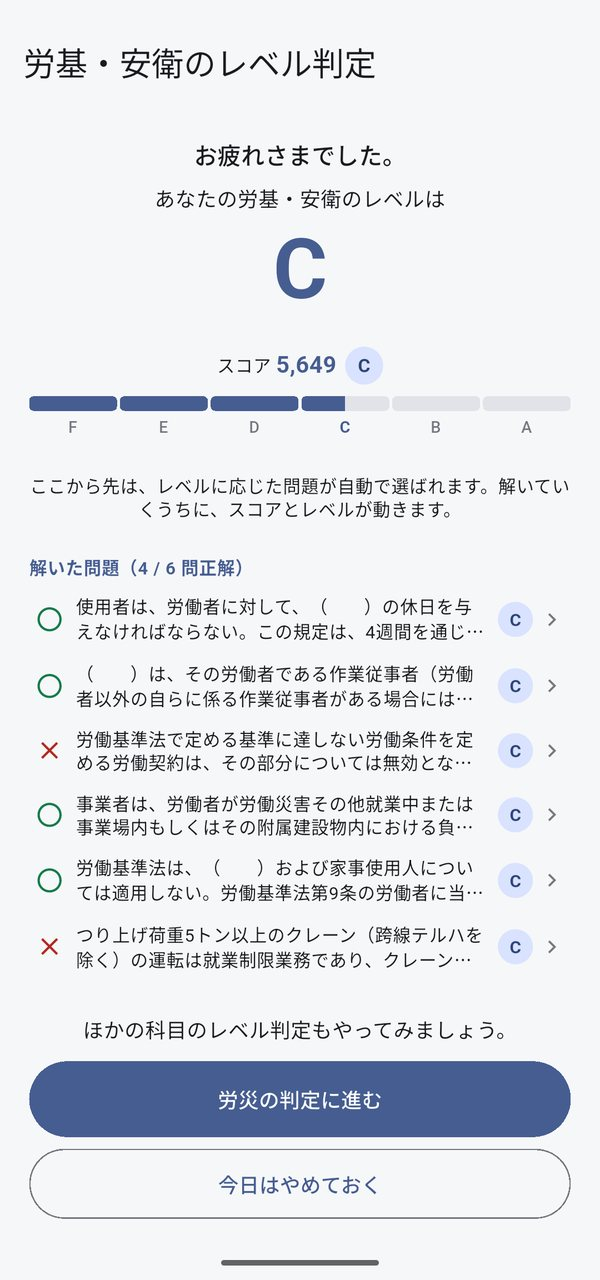
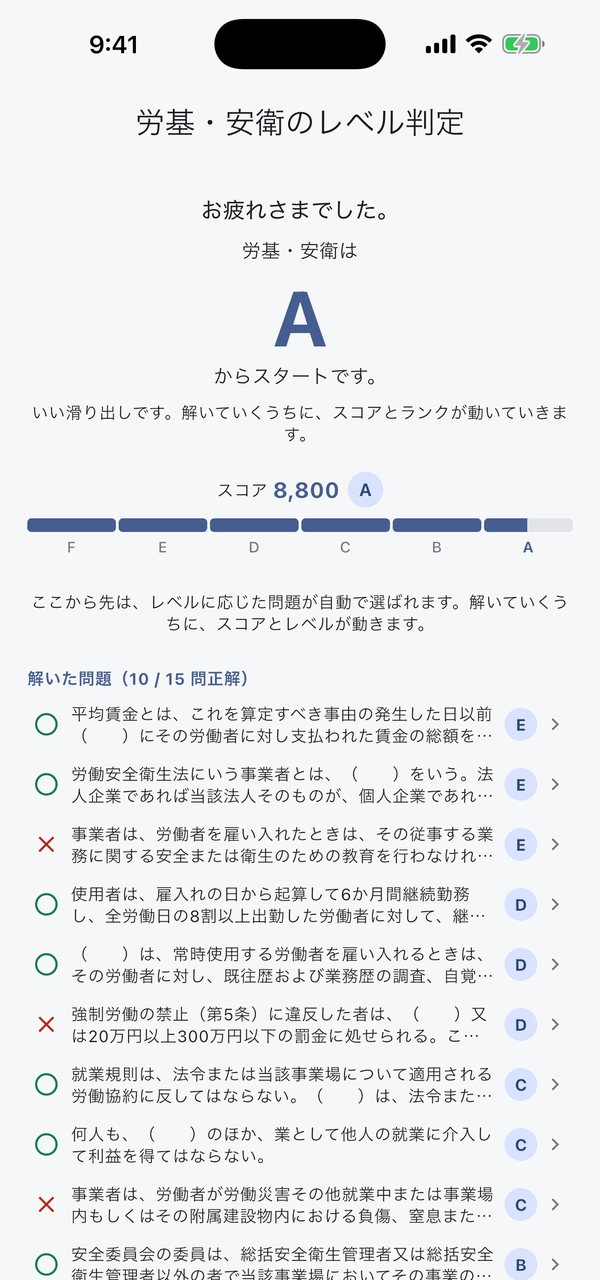
feat: 社労士勉強くんの販促ページに v1.1（ニュース・印とメモ・文字の大きさ）を足す
- できることにニュースのブロック（画像 08_news）
- 解説と出典に印とメモの1文、料金表をアプリと揃える
- FAQ に文字の大きさ、NEW のお知らせ（公開から1か月ほどで外す）
- 画像を 5タブの画面（2026-10-16 撮影）に差し替え

diff --git a/sharoushi/index.html b/sharoushi/index.html
@@ -102,6 +102,9 @@
   .app-id{display:flex;align-items:center;gap:12px;margin-bottom:22px}
   .app-id img{width:56px;height:56px;border-radius:14px;box-shadow:var(--shadow)}
   .app-id span{display:block;font-size:12.5px;color:var(--sub);line-height:1.5}
+  .news-flag{display:inline-flex;align-items:center;gap:10px;margin:-6px 0 18px;padding:7px 14px 7px 8px;border-radius:999px;background:var(--chip);color:var(--ink);font-size:13.5px;font-weight:700;text-decoration:none;line-height:1.4}
+  .news-flag i{font-style:normal;font-family:var(--num);font-size:11.5px;letter-spacing:.08em;color:var(--on-navy);background:var(--navy-deep);border-radius:999px;padding:3px 9px}
+  .news-flag:hover{text-decoration:underline}
   .app-id b{font-family:var(--display);font-size:18px;font-weight:900;line-height:1.3}
   .hero h1{font-size:clamp(38px,11vw,62px);font-weight:900;letter-spacing:.02em;line-height:1.3}
   .facts{display:flex;flex-wrap:wrap;gap:8px;margin:22px 0 0;padding:0;list-style:none}
@@ -297,6 +300,8 @@
         <img src="img/icon.png" alt="社労士勉強くん アイコン" width="56" height="56">
         <div><b>社労士勉強くん</b><span>社会保険労務士 試験対策アプリ</span></div>
       </div>
+      <!-- 2026-10 v1.1 のお知らせ。公開から1か月ほどで外す -->
+      <a class="news-flag" href="#news"><i>NEW</i>ニュースタブができました（v1.1）</a>
       <h1>いまの実力、<br>科目ごとに<mark>数字で。</mark></h1>
       <p class="lead">最初のレベル判定で、科目ごとの現在地が分かります。10問ずつ解くたびにスコアとランクが動き、どこが伸びてどこが弱いかが数字で見えます。いま通っている講座やお手持ちのテキストで学んだことを、このアプリで確かめられます。</p>
       <ul class="facts">
@@ -386,7 +391,7 @@
       <div class="feat-txt">
         <span class="tag">解説と出典</span>
         <h3>答えたら、すぐ条文へ。</h3>
-        <p>答えるとすぐに解説が出て、問題の元になった条文・判例の知識をその場で確かめられます。「なぜそうなるのか」まで戻れるので、丸暗記で終わりません。</p>
+        <p>答えるとすぐに解説が出て、問題の元になった条文・判例の知識をその場で確かめられます。「なぜそうなるのか」まで戻れるので、丸暗記で終わりません。気になった問題には印とメモを残せて、記録タブから一覧で見直せます。</p>
       </div>
       <div class="phone"><img src="img/04_explanation.jpg" alt="解説と、元になった条文の本文" loading="lazy" width="600" height="1280"></div>
     </div>
@@ -407,6 +412,14 @@
         <p>直近2週間の学習時間と解いた問題数、科目ごとのスコアの推移を、週・月・四半期・半年・年で振り返れます。</p>
       </div>
       <div class="phone"><img src="img/06_record.jpg" alt="記録タブ。学習時間のグラフと科目ごとのスコアの推移" loading="lazy" width="600" height="1280"></div>
+    </div>
+    <div class="feat rev" id="news">
+      <div class="feat-txt">
+        <span class="tag">ニュース</span>
+        <h3>試験の外でも、<br>知識がつながる。</h3>
+        <p>法改正や労働の統計、人事の話題、学習のコツを、ニュースタブで読めます。条文で覚えたことが、いまの職場でどう動いているかが見えてきます。読んだ記事は端末の中だけで覚え、まだ読んでいない記事を先に並べます。</p>
+      </div>
+      <div class="phone"><img src="img/08_news.jpg" alt="ニュースタブ。新着の見出しと、画像つきの記事" loading="lazy" width="600" height="1280"></div>
     </div>
   </div>
 </section>
@@ -465,6 +478,7 @@
           <li>レベル判定・スコアとランク</li>
           <li>解説と、元になった条文・判例の確認</li>
           <li>連続日数・記録のグラフ・学習のお知らせ</li>
+          <li>ニュース・印とメモ</li>
         </ul>
       </div>
       <div class="plan paid">
@@ -476,7 +490,7 @@
         </div>
         <ul>
           <li>その日に何セットでも解けます</li>
-          <li>間違えた問題だけを集めて、解けるまで何度でも解き直せます</li>
+          <li>間違えた問題と印をつけた問題を集めて、解けるまで何度でも解き直せます</li>
         </ul>
       </div>
     </div>
@@ -507,6 +521,7 @@
       <details><summary>このアプリだけで合格できますか？</summary><p>このアプリは、講座やテキストで学んだことを毎日確かめるためのサブ教材です。メインの教材と組み合わせてお使いください。</p></details>
       <details><summary>一般常識（労一・社一）は入っていますか？</summary><p>現在は収録していません。追加を予定しています。</p></details>
       <details><summary>機種変更をしたら、記録は引き継げますか？</summary><p>学習記録は端末の中にだけ保存しているため、機種変更やアプリの削除で失われます。有料プランは、新しい端末で「購入を復元」を押すと戻せます。</p></details>
+      <details><summary>スマートフォンの画面でも、読みやすく勉強できますか？</summary><p>設定画面で、文字の大きさを4段階（小・標準・大・特大）から選べます。問題文も解説も、選んだ大きさで表示されます。</p></details>
       <details><summary>法改正には対応しますか？</summary><p>法令の改正にあわせて、問題と解説を更新していきます。問題の最終更新日は、アプリの設定画面で確認できます。</p></details>
       <details><summary>解答のデータは送られますか？</summary><p>問題の改善のため、問題ごとの正誤を、個人が特定されない形で集めています。詳しくは<a href="/privacy/">プライバシーポリシー</a>をご覧ください。</p></details>
     </div>
